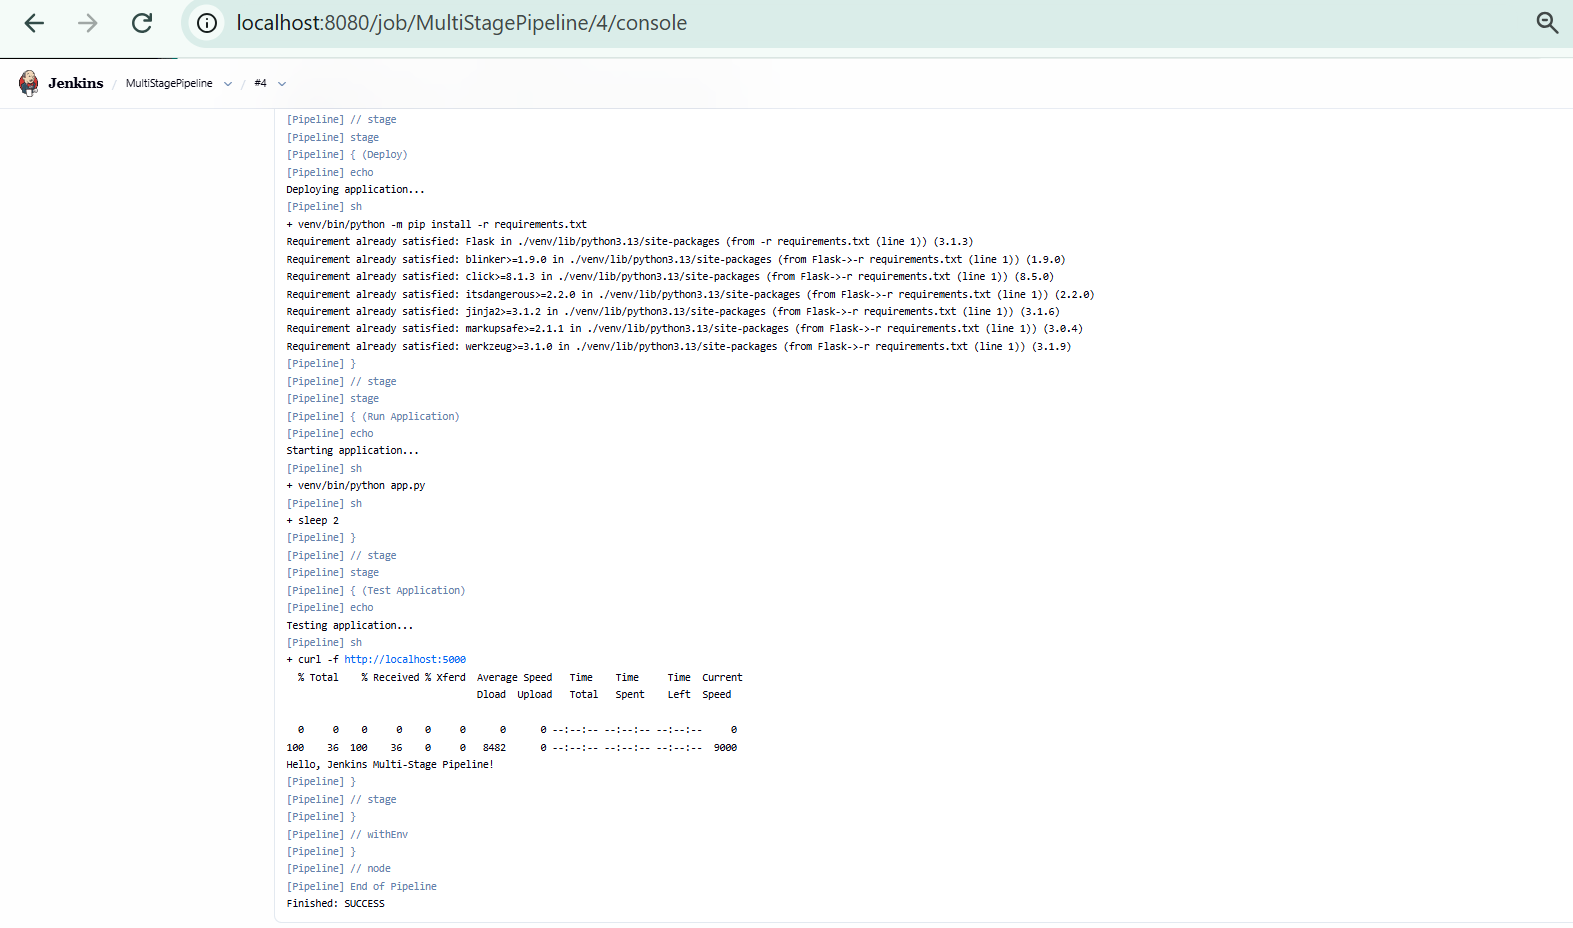
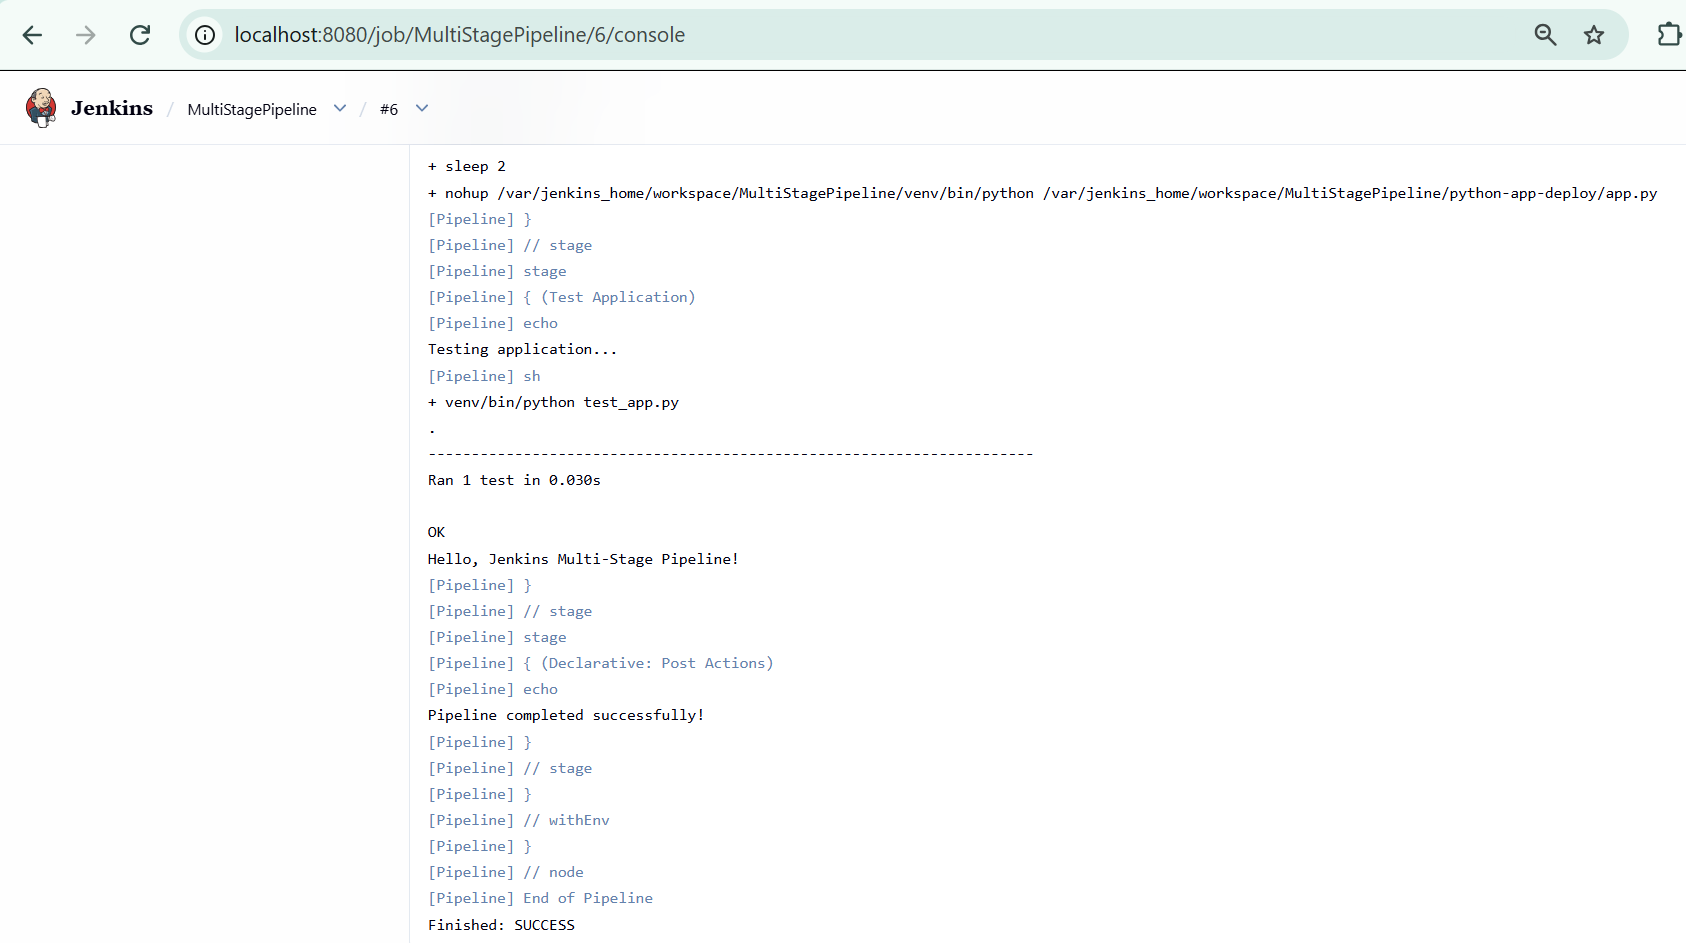
Align Assignment 9 documentation with five-stage pipeline

diff --git a/9-Jenkins-MultiStage-Pipeline.md b/9-Jenkins-MultiStage-Pipeline.md
@@ -1,91 +1,120 @@
-# Assignment 9: Jenkins Multi-Stage Pipeline
+# Exercise 9: Jenkins Multi-Stage Pipeline — Deploying a Python Application
 
 ## Objective
 
-To create a Jenkins multi-stage pipeline that automatically tests, deploys, runs, and verifies a Python Flask application using a Jenkinsfile stored in GitHub.
+Build a Jenkins Pipeline job that performs multiple stages — Build, Test, Deploy, Run Application, and a post-deploy Test — for a sample Flask application, demonstrating a realistic multi-stage CI/CD workflow.
 
-## Tools and Technologies
+## Scenario
 
-- Jenkins
-- Docker
-- Git and GitHub
-- Python 3
-- Flask
-- pytest
-- Declarative Jenkins Pipeline
+Automate the CI/CD pipeline for a Python Flask application through five stages:
 
-## Application Overview
+1. **Build** — create a Python virtual environment and install dependencies.
+2. **Test** — run unit tests.
+3. **Deploy** — copy the application to a mock deployment directory.
+4. **Run Application** — start the deployed application in the background.
+5. **Test Application** — verify the application using the test script.
 
-A simple Python Flask application is used to demonstrate the Jenkins multi-stage pipeline. The application returns a message when accessed through the root URL.
+## Step 1: Flask Application
 
-**Expected Output**
+### `app.py`
 
-    Hello, Jenkins Multi-Stage Pipeline!
+The Flask application returns a message when the root URL is accessed.
 
-## Implementation
+```python
+from flask import Flask
 
-### Step 1: Push Application Files to GitHub
+app = Flask(__name__)
 
-Created the following files in the `devops-sample-code` GitHub repository:
+@app.route("/")
+def hello():
+    return "Hello, Jenkins Multi-Stage Pipeline!"
 
-- `app.py` — Contains the Flask application.
-- `requirements.txt` — Specifies the Python dependencies.
-- `test_app.py` — Contains the application test case.
-- `Jenkinsfile` — Defines the pipeline stages.
+if __name__ == "__main__":
+    app.run(host="0.0.0.0", port=5000)
+```
 
-The files were committed and pushed to the `main` branch.
+### `requirements.txt`
 
-![Application files pushed to GitHub](Images/jenkins-pipeline-files-pushed.png)
+```text
+flask==2.1.2
+Werkzeug==2.1.2
+```
 
-### Step 2: Configure the Jenkins Pipeline
+Werkzeug is pinned to a compatible version to prevent the import error encountered during the pipeline test.
 
-Created a Jenkins pipeline job named `MultiStagePipeline` and configured it to retrieve the Jenkinsfile from GitHub using Pipeline Script from SCM.
+### `test_app.py`
 
-**Configuration Details**
+```python
+import unittest
+from app import app
 
+class TestApp(unittest.TestCase):
+    def test_home(self):
+        tester = app.test_client()
+        response = tester.get("/")
+        print(response.data.decode("utf-8"))
+        self.assertEqual(response.status_code, 200)
+        self.assertEqual(response.data.decode("utf-8"), "Hello, Jenkins Multi-Stage Pipeline!")
+
+if __name__ == "__main__":
+    unittest.main()
+```
+
+## Step 2: Jenkinsfile
+
+The declarative Jenkinsfile defines five stages. A Python virtual environment is used to install and run dependencies.
+
+- **Build:** Create the virtual environment and install Flask.
+- **Test:** Install pytest and execute the application test.
+- **Deploy:** Copy `app.py` into the `python-app-deploy` directory.
+- **Run Application:** Start the deployed Flask application in the background.
+- **Test Application:** Execute the test script again and verify the application response.
+
+The pipeline also includes post-build actions that display a success or failure message.
+
+## Step 3: Push to the Existing Repository
+
+The application files are stored in the existing `devops-sample-code` GitHub repository.
+
+Repository URL: https://github.com/heyfn/devops-sample-code
+
+The files include:
+
+- `app.py`
+- `requirements.txt`
+- `test_app.py`
+- `Jenkinsfile`
+
+The changes were committed and pushed to the `main` branch.
+
+![Pipeline files pushed to GitHub](Images/jenkins-pipeline-files-pushed.png)
+
+## Step 4: Create the Jenkins Pipeline Job
+
+Created a Jenkins Pipeline job named `MultiStagePipeline`.
+
+## Step 5: Configure Pipeline from SCM
+
+Configured Jenkins to retrieve the Jenkinsfile directly from GitHub.
+
+- **Definition:** Pipeline script from SCM
 - **SCM:** Git
 - **Repository URL:** `https://github.com/heyfn/devops-sample-code.git`
-- **Branch:** `*/main`
+- **Branch Specifier:** `*/main`
 - **Script Path:** `Jenkinsfile`
 
-![Jenkins pipeline SCM configuration](Images/jenkins-pipeline-scm-config.png)
+![Pipeline SCM configuration](Images/jenkins-pipeline-scm-config.png)
 
-### Step 3: Configure Python in the Jenkins Container
+## Step 6: Install Python in the Jenkins Container
 
-Installed Python 3, pip, the Python virtual environment package, and Flask in the Jenkins container. Verified that Python and Flask were installed successfully.
+The Jenkins Docker image does not include Python by default. Python 3, pip, the virtual environment package, and Flask were installed in the running Jenkins container.
 
-![Python and Flask installation verification](Images/jenkins-container-python-verify.png)
+The installation was verified by checking the Python and Flask versions.
 
-### Step 4: Execute the Multi-Stage Pipeline
+![Python and Flask verified inside the Jenkins container](Images/jenkins-container-python-verify.png)
 
-The Jenkinsfile defines four stages to automate the application workflow.
+**Note on persistence:** Installing packages directly inside a running container changes its writable layer. If the container is removed and recreated, these system-level installations may need to be repeated. A custom Jenkins image can provide a more persistent setup.
 
-**1. Test**
+## Step 7: Troubleshoot Dependency Compatibility
 
-- Creates a Python virtual environment.
-- Installs the required dependencies and pytest.
-- Executes the test case in `test_app.py`.
-
-**2. Deploy**
-
-- Installs the application dependencies in the virtual environment.
-
-**3. Run Application**
-
-- Starts the Flask application in the background.
-- Waits briefly for the application to start.
-
-**4. Test Application**
-
-- Uses `curl` to send a request to `http://localhost:5000`.
-- Checks that the application responds successfully with the expected message.
-
-![Successful Jenkins multi-stage pipeline](Images/jenkins-multistage-pipeline-success.png)
-
-## Result
-
-The Jenkins multi-stage pipeline executed successfully. All four stages completed, and the application returned the expected response:
-
-    Hello, Jenkins Multi-Stage Pipeline!
-
-**Final Status: SUCCESS**
+The initial pipeline run failed
